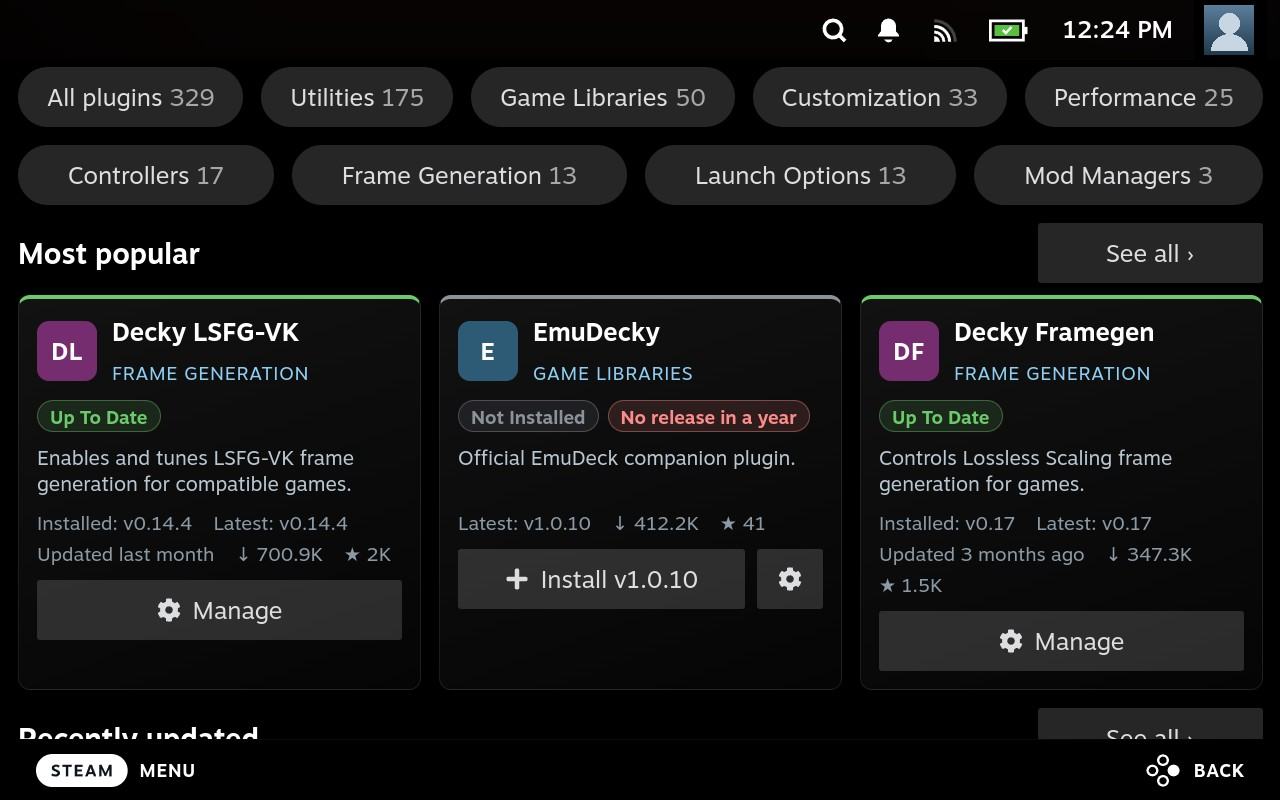
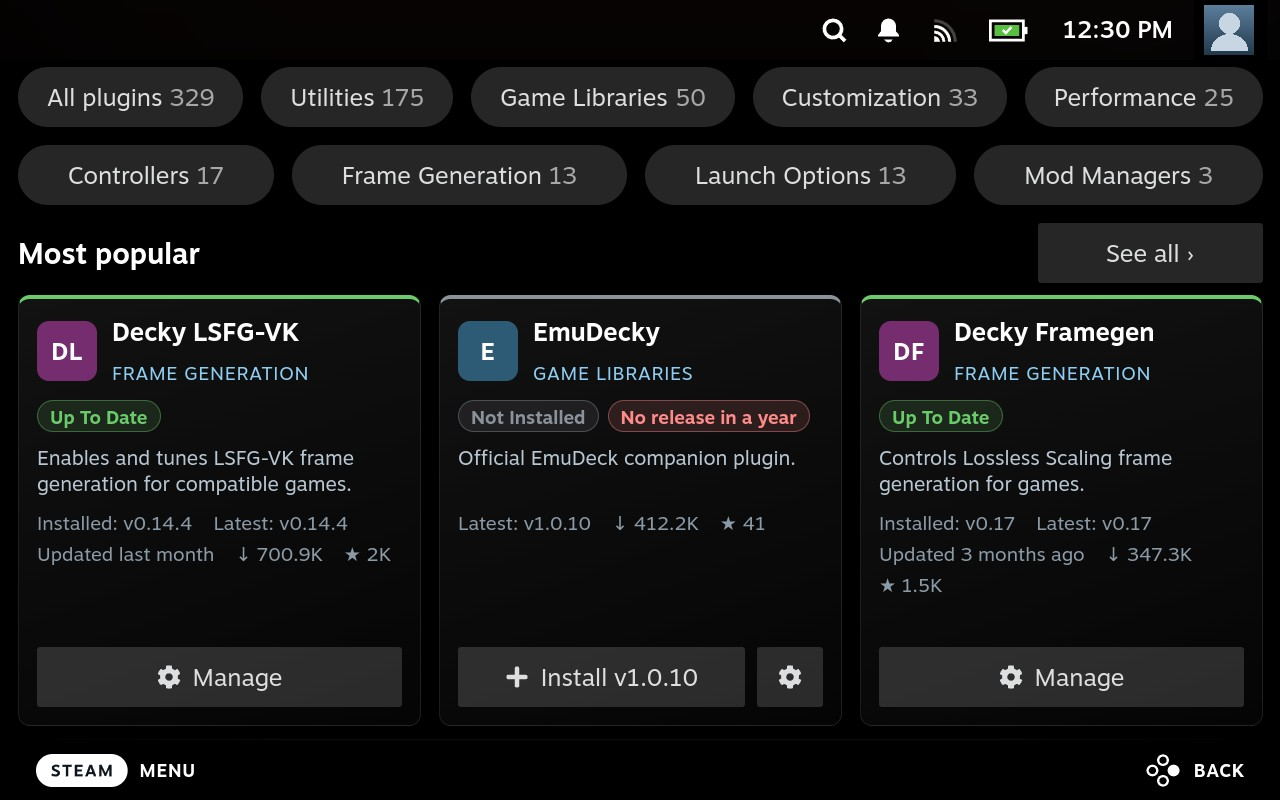
fix: card buttons line up across a row; audit checks it
A longer description or stats line pushed one card's buttons lower than its
neighbours' (seen in the promo screenshots). Cards now use fixed grid rows
with a stretch row that pins the buttons to the bottom. audit.js flags a row
of cards whose buttons don't start at one height. Discover shot retaken.

diff --git a/src/components/AppCard.tsx b/src/components/AppCard.tsx
@@ -14,8 +14,10 @@ import { plainNotes, showReleaseInfo } from "./ReleaseInfo";
 const cardStyle = {
   display: "grid",
   gridTemplateColumns: "40px minmax(0, 1fr)",
-  gridTemplateRows: "auto auto",
-  alignContent: "start",
+  // Fixed rows: name, category, badges, description, stats, error, what's new, then a
+  // stretch row that pins the buttons to the bottom, so a row of cards lines up
+  // (a longer description pushed one card's buttons lower; seen on a Deck).
+  gridTemplateRows: "auto auto auto auto auto auto auto minmax(0, 1fr) auto",
   columnGap: 10,
   rowGap: 8,
   ...surfaceStyle,
@@ -72,7 +74,7 @@ export function AppCard({
   );
   // Install/Update, with Manage as a gear beside it; Manage alone takes the full width.
   const actions = (
-      <Focusable flow-children="right" style={{ display: "flex", gap: 8, ...(row ? {} : { ...fullRow, marginTop: "auto" }) }}>
+      <Focusable flow-children="right" style={{ display: "flex", gap: 8, ...(row ? {} : { ...fullRow, gridRow: 9 }) }}>
       {install && quickAction && (
           <div style={{ flex: 1, minWidth: 0 }}>
           <Button
@@ -157,24 +159,24 @@ export function AppCard({
     // find a card's buttons from its heading.
     <div className="deckyhub-focus-ring" style={{ ...cardStyle, borderTopColor: accent }}>
       <AppMonogram app={app} style={{ gridRow: "1 / 3", alignSelf: "center" }} />
-      <h3 style={cardTitleStyle}>{app.name}</h3>
-      <small style={categoryStyle}>{app.category}</small>
-      <div style={fullRow}>
+      <h3 style={{ ...cardTitleStyle, gridColumn: 2, gridRow: 1 }}>{app.name}</h3>
+      <small style={{ ...categoryStyle, gridColumn: 2, gridRow: 2 }}>{app.category}</small>
+      <div style={{ ...fullRow, gridRow: 3 }}>
         {statusPill}
         {channelPill}
         <AppBadges app={app} t={t} />
       </div>
-      <small style={{ ...cardDescriptionStyle, ...fullRow, display: "-webkit-box", color: "#b8c7d3" }}>{app.description || " "}</small>
-      <div style={{ ...fullRow, display: "flex", flexWrap: "wrap", gap: "2px 14px", color: "#8b9aa7", fontSize: "max(12px, 0.8em)" }}>
+      <small style={{ ...cardDescriptionStyle, ...fullRow, gridRow: 4, display: "-webkit-box", color: "#b8c7d3" }}>{app.description || " "}</small>
+      <div style={{ ...fullRow, gridRow: 5, display: "flex", flexWrap: "wrap", gap: "2px 14px", color: "#8b9aa7", fontSize: "max(12px, 0.8em)" }}>
         {app.installedVersion && <span>{t("settings.installedVersion", { version: displayVersion(app.installedVersion) })}</span>}
         {/* No release and no error yet: its GitHub check is still running. */}
         <span>{t("settings.latestVersion", { version: app.latestVersion ? displayVersion(app.latestVersion) : app.error ? "—" : t("settings.checkingUpdate") })}</span>
         <AppStats app={app} t={t} />
       </div>
-      {app.error && <small style={{ ...fullRow, color: "#ff6b6b", overflowWrap: "anywhere" }}>{app.error}</small>}
+      {app.error && <small style={{ ...fullRow, gridRow: 6, color: "#ff6b6b", overflowWrap: "anywhere" }}>{app.error}</small>}
       {/* What an update brings, so you can decide on the card; Y (Release Info) reads it all. */}
       {isUpdate && notes && (
-        <small className="deckyhub-card-notes" style={{ ...cardDescriptionStyle, ...fullRow, display: "-webkit-box", color: "#d8e6f0", borderLeft: "2px solid #f0c33c", paddingLeft: 8 }}>
+        <small className="deckyhub-card-notes" style={{ ...cardDescriptionStyle, ...fullRow, gridRow: 7, display: "-webkit-box", color: "#d8e6f0", borderLeft: "2px solid #f0c33c", paddingLeft: 8 }}>
           <strong style={{ color: "#f0c33c" }}>{t("details.whatsNew", { version: `v${latest}` })}:</strong> {notes}
         </small>
       )}

diff --git a/devtools/deck/audit.js b/devtools/deck/audit.js
@@ -49,6 +49,20 @@
     }
   }
 
+  // Cards side by side (a grid row) have their buttons at one height.
+  const cards = [...root.querySelectorAll(".deckyhub-focus-ring")].filter((card) => shown(card) && !card.classList.contains("deckyhub-app-row") && !card.classList.contains("deckyhub-search-row"));
+  const cardRows = new Map();
+  for (const card of cards) {
+    const top = Math.round(card.getBoundingClientRect().top);
+    if (!cardRows.has(top)) cardRows.set(top, []);
+    cardRows.get(top).push(card);
+  }
+  for (const row of cardRows.values()) {
+    if (row.length < 2) continue;
+    const tops = row.map((card) => { const buttons = [...card.querySelectorAll("button, .DialogButton")].filter(shown); return buttons.length ? Math.round(buttons.at(-1).getBoundingClientRect().top) : null; }).filter((top) => top !== null);
+    if (Math.max(...tops) - Math.min(...tops) > 2) problems.push(`card buttons out of line: ${row.map((card) => name(card.querySelector("h3") ?? card)).join(" / ")}`);
+  }
+
   // Accessible names.
   for (const el of controls) {
     const labelled = el.getAttribute("aria-label") || el.getAttribute("aria-labelledby") || el.textContent.trim() || el.title || el.closest("label")?.textContent.trim() || el.placeholder;
